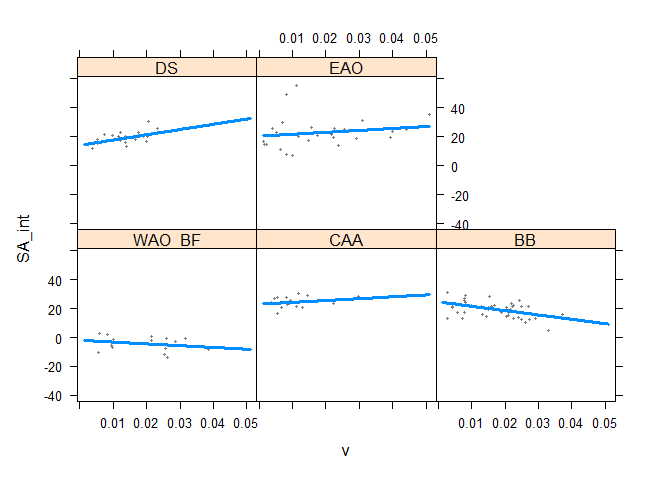
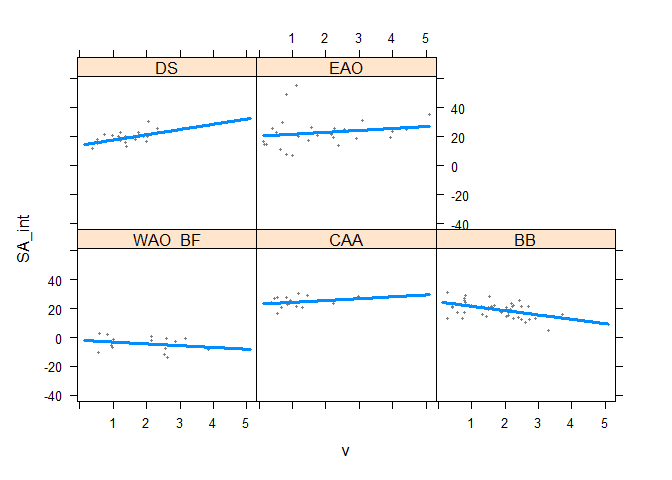
Added Kruskal Wallis tests for interannual and spatial differences in SA and CM.

Changed region(s): [[0.6875, 0.875, 0.9375, 0.9062], [0.4062, 0.0625, 0.6562, 0.0938], [0.1562, 0.875, 0.375, 0.9062]]

diff --git a/PanArctic_DSL_statistics.md b/PanArctic_DSL_statistics.md
@@ -1,7 +1,7 @@
 PanArctic DSL - Statistics
 ================
 [Pierre Priou](mailto:pierre.priou@mi.mun.ca)
-2022/05/03 at 11:10
+2022/05/03 at 15:13
 
 # Package loading
 
@@ -25,6 +25,7 @@ library(visreg)       # Visualise GAM
 library(tidymv)       # Predict GAM
 library(MuMIn)        # AIC weights
 library(DT)           # Interactive table
+library(rstatix)      # Pipe-friendly stats
 # Custom figure theme
 theme_set(theme_bw())
 theme_update(axis.text = element_text(size = 9),
@@ -67,6 +68,8 @@ coast_10m_laea <- readOGR("data/bathy/ne_10m_land.shp", verbose = F) %>% # Coast
 
 # Gridded acoustic, CTD, and sea ice data
 load("data/acoustics/SA_grids.RData") # Acoustic data
+SA_grid_laea <- SA_grid_laea %>%
+  mutate(SA_int = 10 * log10(NASC_int))
 load("data/remote_sensing/physics_grids.RData") # Modelled physics data 
 load("data/remote_sensing/seaice_grids.RData") # Remote sensing sea ice data
 ```
@@ -89,11 +92,11 @@ seaice_laea <- seaice_grid_laea %>%
 stat_laea <- left_join(SA_laea, phy_laea, by = c("year", "area", "xc", "yc", "cell_res")) %>% # Join acoustic and physics
   left_join(., seaice_laea, by = c("year", "area", "xc", "yc", "cell_res")) %>%
   # For cells that have NaN, get the mean of the surrounding cells
-   rowwise() %>%
-   mutate(xc_na = if_else(is.na(mean_ice_conc) == T, xc, NaN),
-          yc_na = if_else(is.na(mean_ice_conc) == T, yc, NaN),
-          year_na = if_else(is.na(mean_ice_conc) == T, year, NaN), 
-          mean_ice_conc = if_else(is.na(mean_ice_conc) == T, mean(pull(subset(seaice_grid_laea,
+  rowwise() %>%
+  mutate(xc_na = if_else(is.na(mean_ice_conc) == T, xc, NaN),
+         yc_na = if_else(is.na(mean_ice_conc) == T, yc, NaN),
+         year_na = if_else(is.na(mean_ice_conc) == T, year, NaN), 
+         mean_ice_conc = if_else(is.na(mean_ice_conc) == T, mean(pull(subset(seaice_grid_laea,
                                                                              xc >= xc_na - 50 &
                                                                                xc <= xc_na + 50 & 
                                                                                yc >= yc_na - 50 & 
@@ -135,6 +138,7 @@ stat_laea <- left_join(SA_laea, phy_laea, by = c("year", "area", "xc", "yc", "ce
                             ice_week)) %>%
   filter(depth == 380) %>% # Select data at 380 m depth
   mutate(SA_int = 10 * log10(NASC_int),
+         velocity = velocity * 100, # Convert to cm/s
          IHO_area = factor(case_when(IHO_area == "East Arctic Ocean" ~ "EAO",
                                      IHO_area == "West Arctic Ocean" ~ "WAO_BF",
                                      IHO_area == "Beaufort Sea" ~ "WAO_BF",
@@ -253,7 +257,7 @@ stat_laea %>% # Ice concentration
   ggplot(aes(x = xc,  y = yc)) +
   geom_polygon(data = coast_10m_laea, aes(x = xc, y = yc, group = group), fill = "grey80") +
   geom_tile(aes(fill = velocity)) +
-  scale_fill_cmocean("velo (m/s)", name = "speed", na.value = "red") +
+  scale_fill_cmocean("velo (cm/s)", name = "speed", na.value = "red") +
   facet_wrap(~ year, ncol = 3) +
   ggtitle("Current velocity at 380 m depth") +
   coord_fixed(xlim = c(-2600, 1100), ylim = c(-1800, 1900), expand = F) + 
@@ -275,6 +279,241 @@ stat_laea %>% # Mixed layer depth
 ```
 
 ![](PanArctic_DSL_statistics_files/figure-gfm/map-mld-1.png)<!-- -->
+
+# Spatial and interannual variability
+
+``` r
+SA_diff <- stat_laea %>%
+  dplyr::select(year, IHO_area, SA_int, NASC_int, CM) %>%
+  mutate(year = factor(year))
+```
+
+## All areas
+
+I check whether there are inter-annual and spatial variability in
+S<sub>A</sub> and the centre of mass across years and areas.
+
+``` r
+# Visualize data
+plot_grid(SA_diff %>% 
+            ggplot() +
+            geom_boxplot(aes(x = year, y = SA_int)),
+          SA_diff %>% 
+            ggplot() +
+            geom_boxplot(aes(x = year, y = CM)))
+```
+
+![](PanArctic_DSL_statistics_files/figure-gfm/all-interannual-spatial-prep-1.png)<!-- -->
+
+``` r
+# Check assumptions
+## Outliers
+SA_diff %>%
+  group_by(year) %>%
+  identify_outliers(SA_int) 
+```
+
+    ## # A tibble: 2 x 7
+    ##   year  IHO_area SA_int NASC_int    CM is.outlier is.extreme
+    ##   <fct> <fct>     <dbl>    <dbl> <dbl> <lgl>      <lgl>     
+    ## 1 2017  EAO        41.6   14296.  412. TRUE       FALSE     
+    ## 2 2017  EAO        48.3   67316.  392. TRUE       FALSE
+
+``` r
+# There are no extreme outlier in CAA
+SA_diff %>%
+  group_by(year) %>%
+  identify_outliers(CM) 
+```
+
+    ## # A tibble: 5 x 7
+    ##   year  IHO_area SA_int NASC_int    CM is.outlier is.extreme
+    ##   <fct> <fct>     <dbl>    <dbl> <dbl> <lgl>      <lgl>     
+    ## 1 2015  WAO_BF    -3.85    0.412  601. TRUE       FALSE     
+    ## 2 2015  WAO_BF     8.88    7.72   591. TRUE       FALSE     
+    ## 3 2015  WAO_BF    -2.63    0.545  564. TRUE       FALSE     
+    ## 4 2015  WAO_BF     7.62    5.78   572. TRUE       FALSE     
+    ## 5 2015  WAO_BF    -1.13    0.770  581. TRUE       FALSE
+
+``` r
+# There are no extreme outliers
+SA_diff %>%
+  group_by(IHO_area) %>%
+  identify_outliers(SA_int) 
+```
+
+    ## # A tibble: 6 x 7
+    ##   IHO_area year  SA_int NASC_int    CM is.outlier is.extreme
+    ##   <fct>    <fct>  <dbl>    <dbl> <dbl> <lgl>      <lgl>     
+    ## 1 BB       2016    1.98     1.58  295. TRUE       FALSE     
+    ## 2 BB       2016    3.58     2.28  354. TRUE       FALSE     
+    ## 3 BB       2017    4.26     2.67  302. TRUE       FALSE     
+    ## 4 DS       2016   30.4   1101.    367. TRUE       FALSE     
+    ## 5 EAO      2017   41.6  14296.    412. TRUE       FALSE     
+    ## 6 EAO      2017   48.3  67316.    392. TRUE       FALSE
+
+``` r
+# There are no extreme outlier in CAA
+SA_diff %>%
+  group_by(IHO_area) %>%
+  identify_outliers(CM) 
+```
+
+    ## # A tibble: 5 x 7
+    ##   IHO_area year  SA_int NASC_int    CM is.outlier is.extreme
+    ##   <fct>    <fct>  <dbl>    <dbl> <dbl> <lgl>      <lgl>     
+    ## 1 BB       2015    14.6     28.8  415. TRUE       FALSE     
+    ## 2 BB       2016    13.9     24.7  393. TRUE       FALSE     
+    ## 3 BB       2016    16.8     48.0  427. TRUE       FALSE     
+    ## 4 BB       2016    16.8     47.4  401. TRUE       FALSE     
+    ## 5 BB       2017    13.2     20.8  265. TRUE       FALSE
+
+``` r
+# There are no extreme outliers
+
+## Normality: Checked by looking at the anova residuals with QQ plot
+ggqqplot(SA_diff, "SA_int", facet.by = "year")
+```
+
+![](PanArctic_DSL_statistics_files/figure-gfm/all-interannual-spatial-prep-2.png)<!-- -->
+
+``` r
+ggqqplot(SA_diff, "CM", facet.by = "year")
+```
+
+![](PanArctic_DSL_statistics_files/figure-gfm/all-interannual-spatial-prep-3.png)<!-- -->
+
+``` r
+ggqqplot(SA_diff, "SA_int", facet.by = "IHO_area")
+```
+
+![](PanArctic_DSL_statistics_files/figure-gfm/all-interannual-spatial-prep-4.png)<!-- -->
+
+``` r
+ggqqplot(SA_diff, "CM", facet.by = "IHO_area")
+```
+
+![](PanArctic_DSL_statistics_files/figure-gfm/all-interannual-spatial-prep-5.png)<!-- -->
+
+``` r
+# Data is fully normal
+
+## Homogeneity of variance
+plot(lm(SA_int ~ year, data = SA_diff), 1)
+```
+
+![](PanArctic_DSL_statistics_files/figure-gfm/all-interannual-spatial-prep-6.png)<!-- -->
+
+``` r
+plot(lm(CM ~ year, data = SA_diff), 1)
+```
+
+![](PanArctic_DSL_statistics_files/figure-gfm/all-interannual-spatial-prep-7.png)<!-- -->
+
+``` r
+plot(lm(SA_int ~ IHO_area, data = SA_diff), 1)
+```
+
+![](PanArctic_DSL_statistics_files/figure-gfm/all-interannual-spatial-prep-8.png)<!-- -->
+
+``` r
+plot(lm(CM ~ IHO_area, data = SA_diff), 1)
+```
+
+![](PanArctic_DSL_statistics_files/figure-gfm/all-interannual-spatial-prep-9.png)<!-- -->
+
+``` r
+SA_diff %>%
+  levene_test(SA_int ~ year)
+```
+
+    ## # A tibble: 1 x 4
+    ##     df1   df2 statistic     p
+    ##   <int> <int>     <dbl> <dbl>
+    ## 1     2   129     0.333 0.718
+
+``` r
+# Not homogenous
+```
+
+I used a non parametric Kruskal-Wallis test to test for interannual and
+spatial variability because the variance is not homogenous and not very
+normal.
+
+``` r
+SA_diff %>% # Kruskal wallis interannual difference SA
+  kruskal_test(SA_int ~ year)
+```
+
+    ## # A tibble: 1 x 6
+    ##   .y.        n statistic    df      p method        
+    ## * <chr>  <int>     <dbl> <int>  <dbl> <chr>         
+    ## 1 SA_int   132      8.65     2 0.0133 Kruskal-Wallis
+
+``` r
+SA_diff %>% # Kruskal wallis interannual difference CM
+  kruskal_test(CM ~ year)
+```
+
+    ## # A tibble: 1 x 6
+    ##   .y.       n statistic    df     p method        
+    ## * <chr> <int>     <dbl> <int> <dbl> <chr>         
+    ## 1 CM      132      1.65     2 0.438 Kruskal-Wallis
+
+``` r
+SA_diff %>% # Kruskal wallis interannual difference SA
+  kruskal_test(SA_int ~ IHO_area)
+```
+
+    ## # A tibble: 1 x 6
+    ##   .y.        n statistic    df         p method        
+    ## * <chr>  <int>     <dbl> <int>     <dbl> <chr>         
+    ## 1 SA_int   132      26.2     4 0.0000289 Kruskal-Wallis
+
+``` r
+SA_diff %>% # Kruskal wallis interannual difference CM
+  kruskal_test(CM ~ IHO_area)
+```
+
+    ## # A tibble: 1 x 6
+    ##   .y.       n statistic    df        p method        
+    ## * <chr> <int>     <dbl> <int>    <dbl> <chr>         
+    ## 1 CM      132      57.8     4 8.21e-12 Kruskal-Wallis
+
+The center of mass did not vary significantly between years (H =
+1.652899, p = 0.438) but varied significantly among areas (*H* =
+57.8495, *p* &lt; 0.001). Mesopelagic backscatter S<sub>A</sub> varied
+significantly between areas (*H* = 26.19394, *p* &lt; 0.001) but not
+years (*H* = 8.6464, *p* = 0.013). Thus, in the S<sub>A</sub> HGAM a
+random effect for change in S<sub>A</sub> per area is likely needed.
+
+## Within areas
+
+I check whether there are inter-annual variability in S<sub>A</sub>
+across years within areas. This will be used to decide whether a random
+effect is needed in the GAM. I used a non parametric Kruskal-Wallis test
+to test for interannual variability within areas.
+
+``` r
+SA_diff %>% # Kruskal wallis interannual difference SA within group
+  group_by(IHO_area) %>%
+  kruskal_test(SA_int ~ year)
+```
+
+    ## # A tibble: 5 x 7
+    ##   IHO_area .y.        n statistic    df      p method        
+    ## * <fct>    <chr>  <int>     <dbl> <int>  <dbl> <chr>         
+    ## 1 WAO_BF   SA_int    16     4.84      2 0.0889 Kruskal-Wallis
+    ## 2 CAA      SA_int    18     6.93      2 0.0313 Kruskal-Wallis
+    ## 3 BB       SA_int    46     4.67      2 0.0968 Kruskal-Wallis
+    ## 4 DS       SA_int    24     0.108     2 0.947  Kruskal-Wallis
+    ## 5 EAO      SA_int    28     5.03      2 0.081  Kruskal-Wallis
+
+There was no interannual differences in SA within each region (WAO\_BF -
+H = 4.8395483, *p* = 0.0889; CAA - H = 6.9278752, *p* = 0.0313; BB - H =
+0.0968, *p* = 0.0889; DS - H = 0.9470, *p* = 0.0889; EAO - H =
+5.0263899, *p* = 0.0810). Therefore, there seems to be no need for a
+random effect for interannual variability within years.
 
 # HGAM
 
@@ -548,21 +787,21 @@ gam.check(GAM3, rep = 500)
     ## indicate that k is too low, especially if edf is close to k'.
     ## 
     ##                   k'   edf k-index p-value
-    ## s(v):IHOWAO_BF 4.000 1.000    1.06    0.76
-    ## s(v):IHOCAA    4.000 1.000    1.06    0.74
-    ## s(v):IHOBB     4.000 1.000    1.06    0.70
-    ## s(v):IHODS     4.000 1.000    1.06    0.73
-    ## s(v):IHOEAO    4.000 1.000    1.06    0.71
+    ## s(v):IHOWAO_BF 4.000 1.000    1.06    0.72
+    ## s(v):IHOCAA    4.000 1.000    1.06    0.73
+    ## s(v):IHOBB     4.000 1.000    1.06    0.76
+    ## s(v):IHODS     4.000 1.000    1.06    0.72
+    ## s(v):IHOEAO    4.000 1.000    1.06    0.75
     ## s(t):IHOWAO_BF 4.000 1.790    1.12    0.88
-    ## s(t):IHOCAA    4.000 1.000    1.12    0.85
-    ## s(t):IHOBB     4.000 3.098    1.12    0.90
+    ## s(t):IHOCAA    4.000 1.000    1.12    0.89
+    ## s(t):IHOBB     4.000 3.098    1.12    0.94
     ## s(t):IHODS     4.000 1.000    1.12    0.92
-    ## s(t):IHOEAO    4.000 1.000    1.12    0.90
-    ## s(o):IHOWAO_BF 4.000 1.000    1.02    0.61
-    ## s(o):IHOCAA    4.000 2.544    1.02    0.54
-    ## s(o):IHOBB     4.000 1.000    1.02    0.59
-    ## s(o):IHODS     4.000 1.000    1.02    0.61
-    ## s(o):IHOEAO    4.000 1.218    1.02    0.66
+    ## s(t):IHOEAO    4.000 1.000    1.12    0.88
+    ## s(o):IHOWAO_BF 4.000 1.000    1.02    0.51
+    ## s(o):IHOCAA    4.000 2.544    1.02    0.55
+    ## s(o):IHOBB     4.000 1.000    1.02    0.58
+    ## s(o):IHODS     4.000 1.000    1.02    0.59
+    ## s(o):IHOEAO    4.000 1.218    1.02    0.54
     ## s(IHO)         5.000 0.917      NA      NA
 
 Check residuals versus covariates.
@@ -740,7 +979,7 @@ plot_grid(pred_GAM %>%
             filter(var == "v" & SE < 5) %>%
             ggplot() +
             geom_line(aes(x = value, y = fit, col = IHO, linetype = IHO), size = 0.75, alpha = 0.8) +
-            geom_ribbon(aes(x = value, ymin = CI_lower, ymax = CI_upper, fill = IHO), alpha = 0.05) +
+            # geom_ribbon(aes(x = value, ymin = CI_lower, ymax = CI_upper, fill = IHO), alpha = 0.1) +
             scale_colour_manual(name = "IHO", values = col_pal) + 
             scale_fill_manual(name = "IHO", values = col_pal) + 
             scale_linetype_manual(name = "IHO", values = c(2, 2, 1, 2, 2)) +
@@ -749,7 +988,7 @@ plot_grid(pred_GAM %>%
             filter(var == "t" & SE < 5) %>%
             ggplot() +
             geom_line(aes(x = value, y = fit, col = IHO, linetype = IHO), size = 0.75, alpha = 0.8) +
-            geom_ribbon(aes(x = value, ymin = CI_lower, ymax = CI_upper, fill = IHO), alpha = 0.05) +
+            # geom_ribbon(aes(x = value, ymin = CI_lower, ymax = CI_upper, fill = IHO), alpha = 0.1) +
             scale_colour_manual(name = "IHO", values = col_pal) + 
             scale_fill_manual(name = "IHO", values = col_pal) + 
             scale_linetype_manual(name = "IHO", values = c(1, 2, 1, 2, 1)) +
@@ -758,11 +997,11 @@ plot_grid(pred_GAM %>%
             filter(var == "o" & SE < 5) %>%
             ggplot() +
             geom_line(aes(x = value, y = fit, col = IHO, linetype = IHO), size = 0.75, alpha = 0.8) +
-            geom_ribbon(aes(x = value, ymin = CI_lower, ymax = CI_upper, fill = IHO), alpha = 0.05) +
+            # geom_ribbon(aes(x = value, ymin = CI_lower, ymax = CI_upper, fill = IHO), alpha = 0.1) +
             scale_colour_manual(name = "IHO", values = col_pal) + 
             scale_fill_manual(name = "IHO", values = col_pal) + 
             scale_linetype_manual(name = "IHO", values = c(1, 1, 1, 2, 1)) +
-            labs(x = "Open water", y = expression("S"[A]*"")))
+            labs(x = "Open water days", y = expression("S"[A]*"")))
 ```
 
 ![](PanArctic_DSL_statistics_files/figure-gfm/ggplot-gam-1.png)<!-- -->
